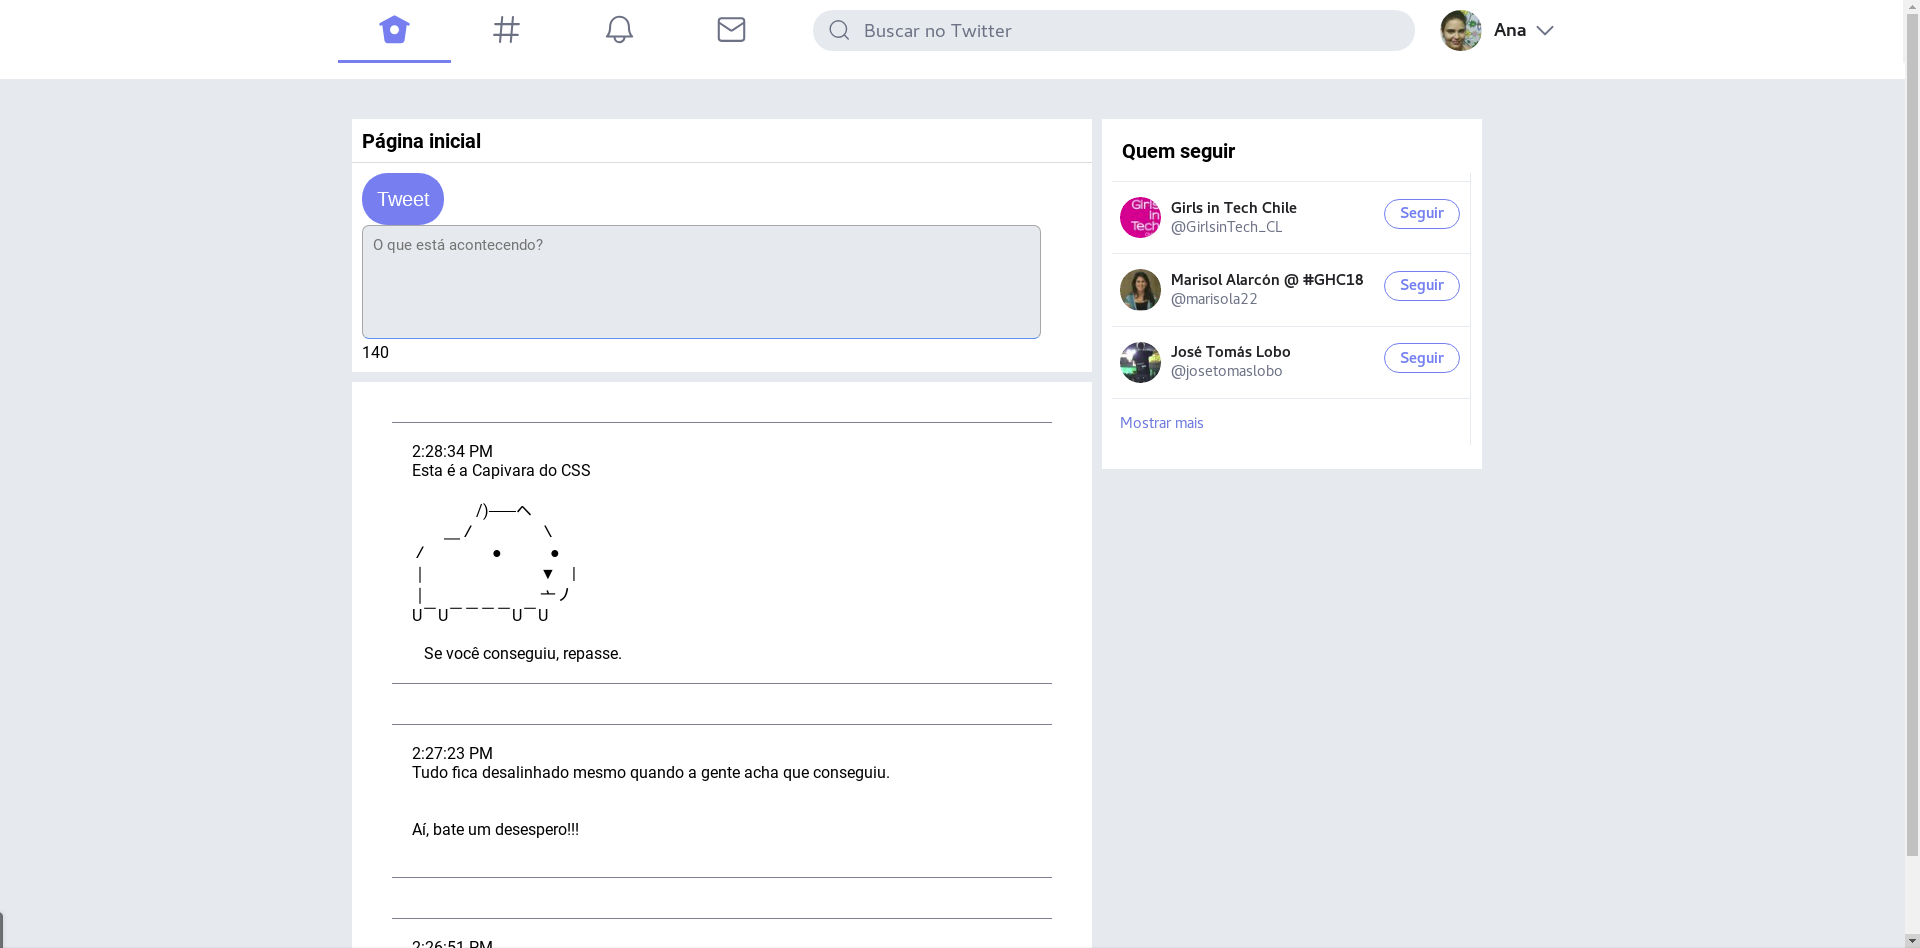
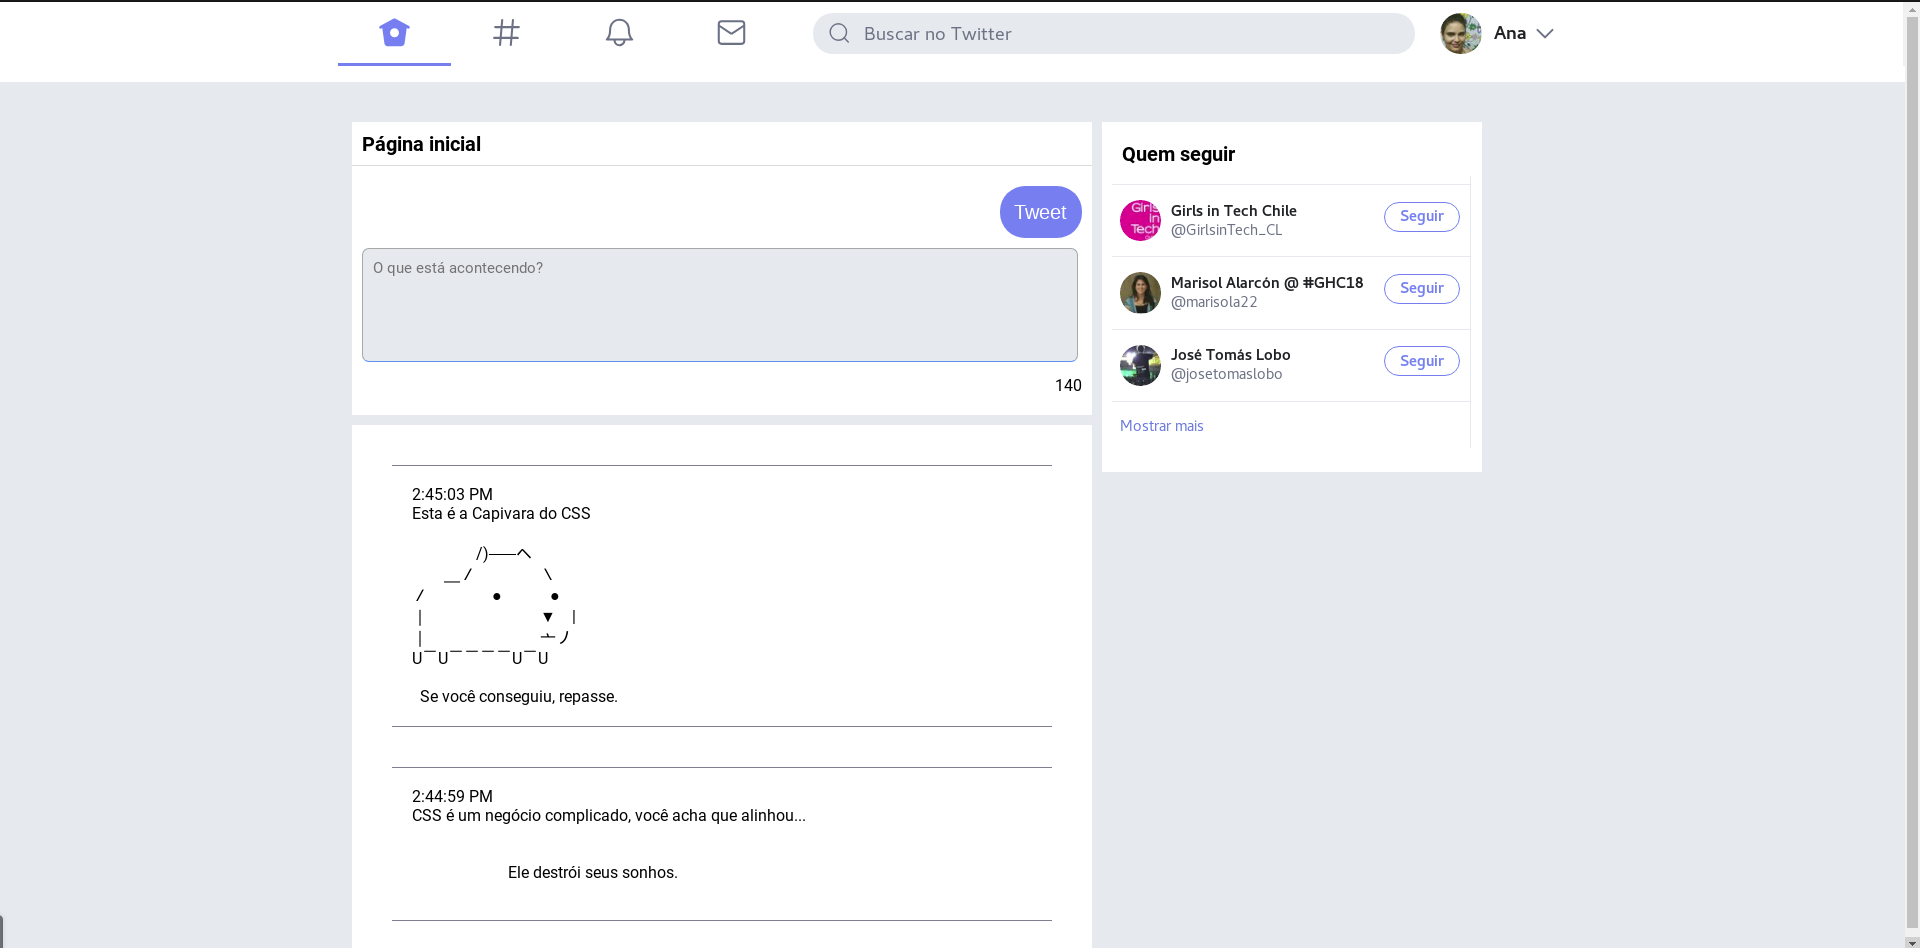
0.0.6 readme atual

diff --git a/style.css b/style.css
@@ -42,7 +42,7 @@ nav {
     border-radius: 7px;
     border-bottom: 0.5px solid;
     border-bottom-color: rgb(29, 161, 242);
-    width: 90%;
+    width: 95%;
     height: 19px;
     background-color: #E6EAEE;
     color: #7D8292;
@@ -54,6 +54,8 @@ nav {
 }
 
 .button {
+    float: right;
+    margin: 10px;
     border: none;
     background-color: #5C91F1;
     border-radius: 25px;
@@ -70,6 +72,8 @@ nav {
 }
 
 .counter {
+    padding: 10px;
+    text-align: right;
     color: black;
 }
 

diff --git a/index.html b/index.html
@@ -26,8 +26,7 @@
         </div>
         <div class="insert-msg">
             <button id="tweet" class="button" disabled="true" type="button">Tweet</button>
-
-            <textarea id="text_box" rows="4" type="textarea" placeholder="O que está acontecendo?" rows="1" keydown></textarea>
+            <textarea id="text_box" rows="2" type="textarea" placeholder="O que está acontecendo?" rows="1" keydown></textarea>
             <div id="counter" class="counter"></div>
         </div>
 
